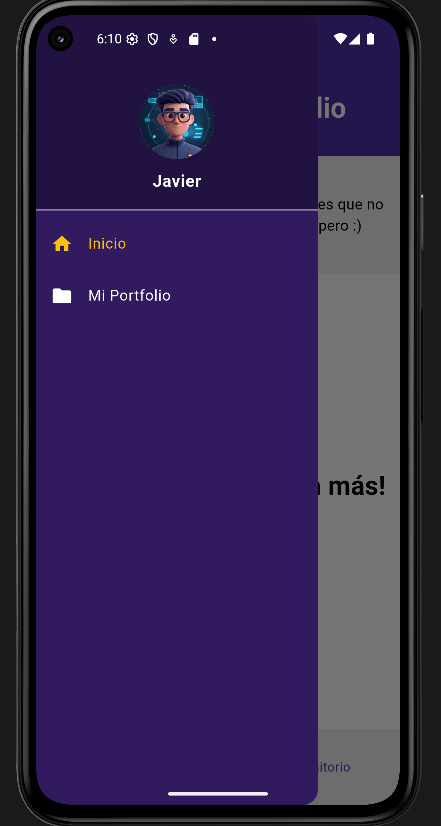
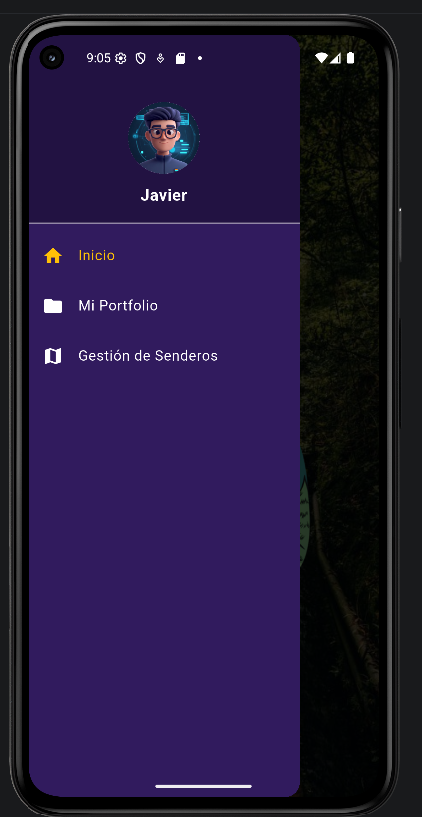
Añade nuevas capturas de pantalla para las vistas de CRUD, Create y Update en el README.md

diff --git a/README.md b/README.md
@@ -10,3 +10,9 @@ Aquí se muestran las diferentes pantallas implementadas con la navegación medi
 ![Captura de la sección de repositorio](screenshots/3_repositorio.png)
 ### Vista del Drawer
 ![Captura de la sección de drawer](screenshots/4_drawer.png)
+### Vista del CRUD
+![Captura de la sección de drawer](screenshots/5_crud.png)
+### Vista del Create
+![Captura de la sección de drawer](screenshots/6_create.png)
+### Vista del Update
+![Captura de la sección de drawer](screenshots/7_edit.png)
